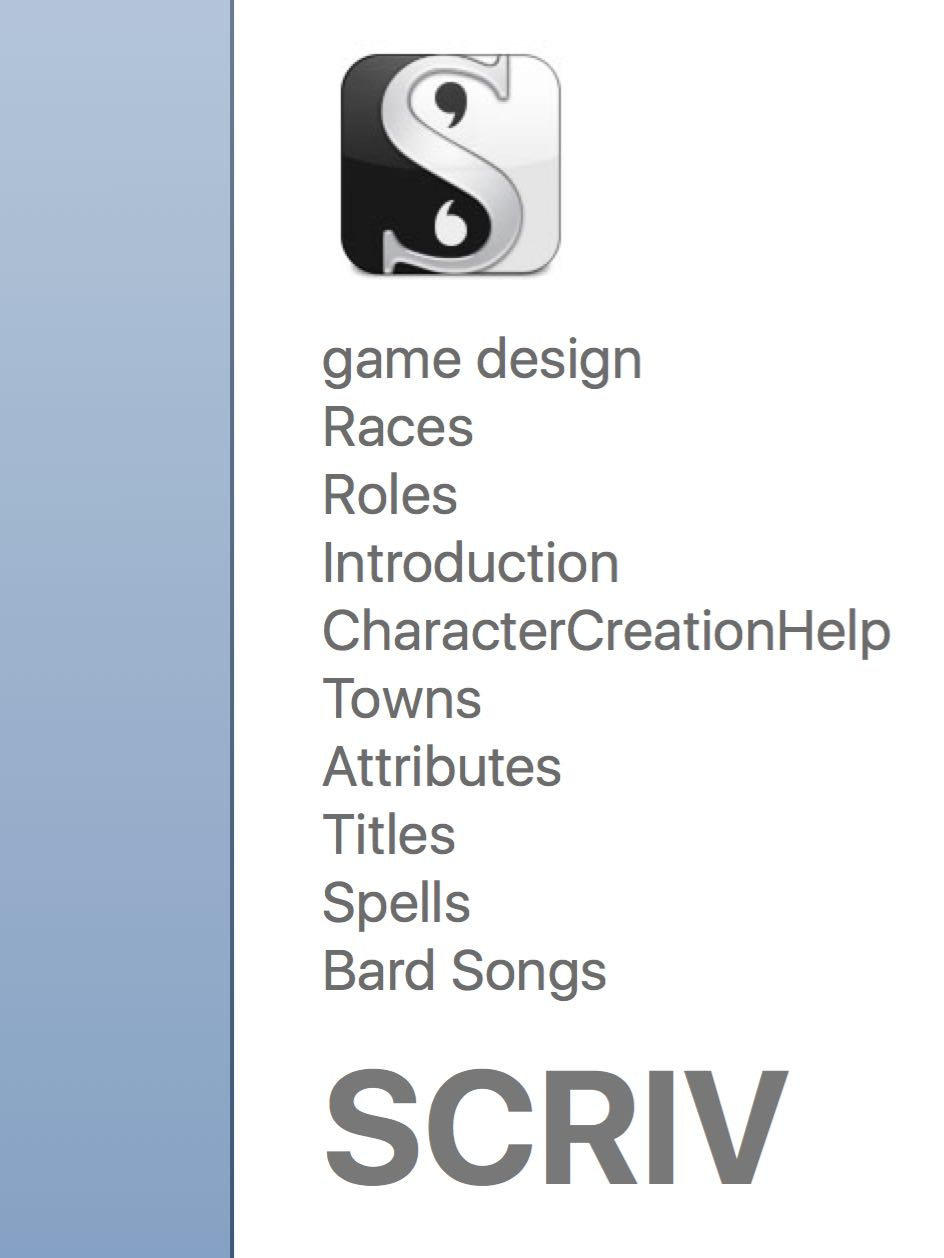
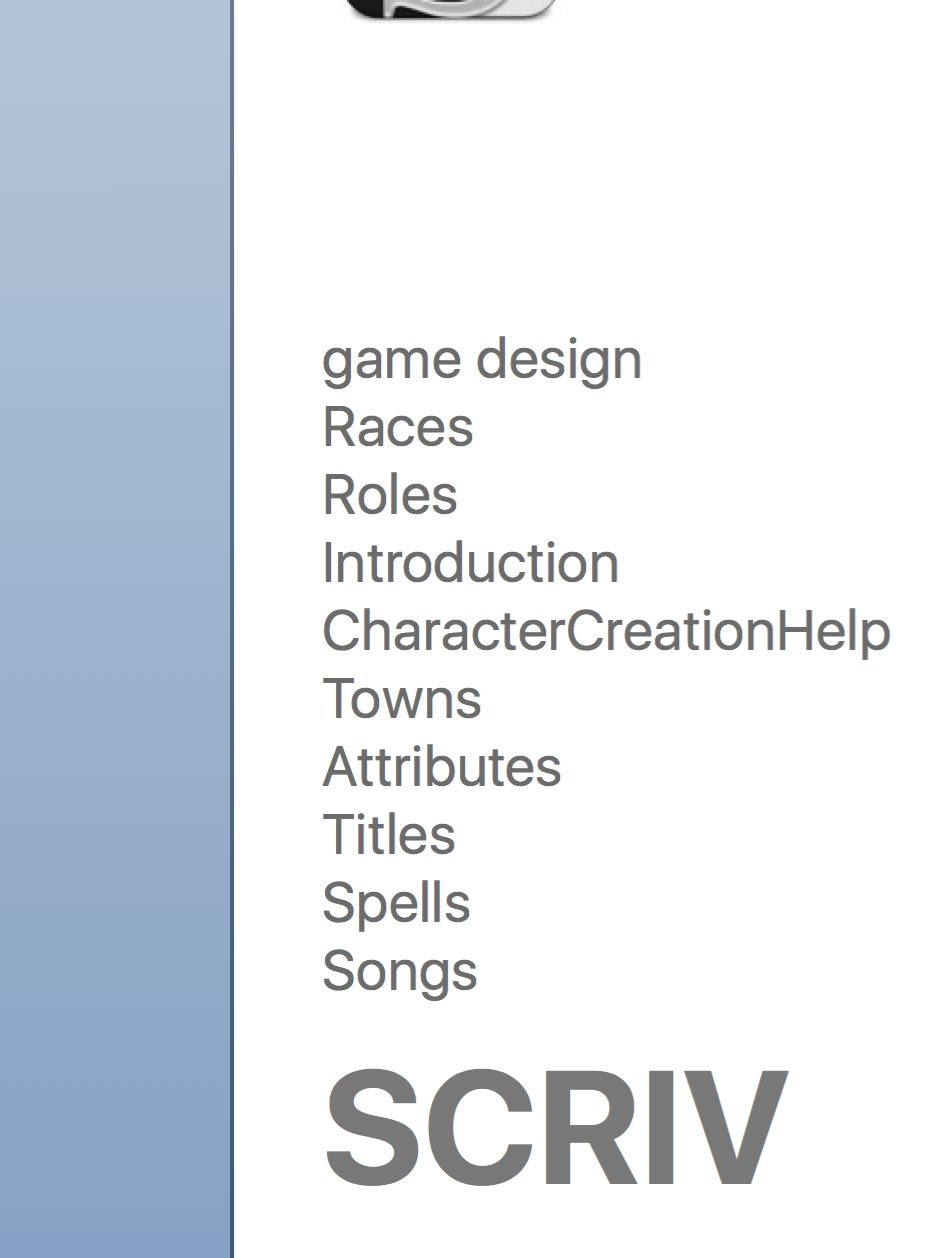
Updated docs regarding conditions.

Changed region(s): [[0.3379, 0.0, 0.6144, 0.248], [0.3379, 0.744, 0.6451, 0.806]]

diff --git a/doc/HeroesPath.scriv/QuickLook/Preview.html b/doc/HeroesPath.scriv/QuickLook/Preview.html
@@ -100,7 +100,7 @@ Wraps a single character’s worst wounds in magical bandages causing a minor in
 This is the first healing spell that any magic user learns.  Only effects one character.  Once a better healing spell is...</p>
 </li>
 <li>
-<p class="binderItem"><strong>Bard Songs</strong><br/>For the beta, the only instrument available to Bards will be a special Lute whose back can be struck like a drum.  This allows me to have sound effects for Songs that are either short acoustic plucking guitar notes or a short bongo-like drum roll.<br/>
+<p class="binderItem"><strong>Songs</strong><br/>For the beta, the only instrument available to Bards will be a special Lute whose back can be struck like a drum.  This allows me to have sound effects for Songs that are either short acoustic plucking guitar notes or a short bongo-like drum roll.<br/>
 <br/>
 <br/>
 Rally Drum<br/>
